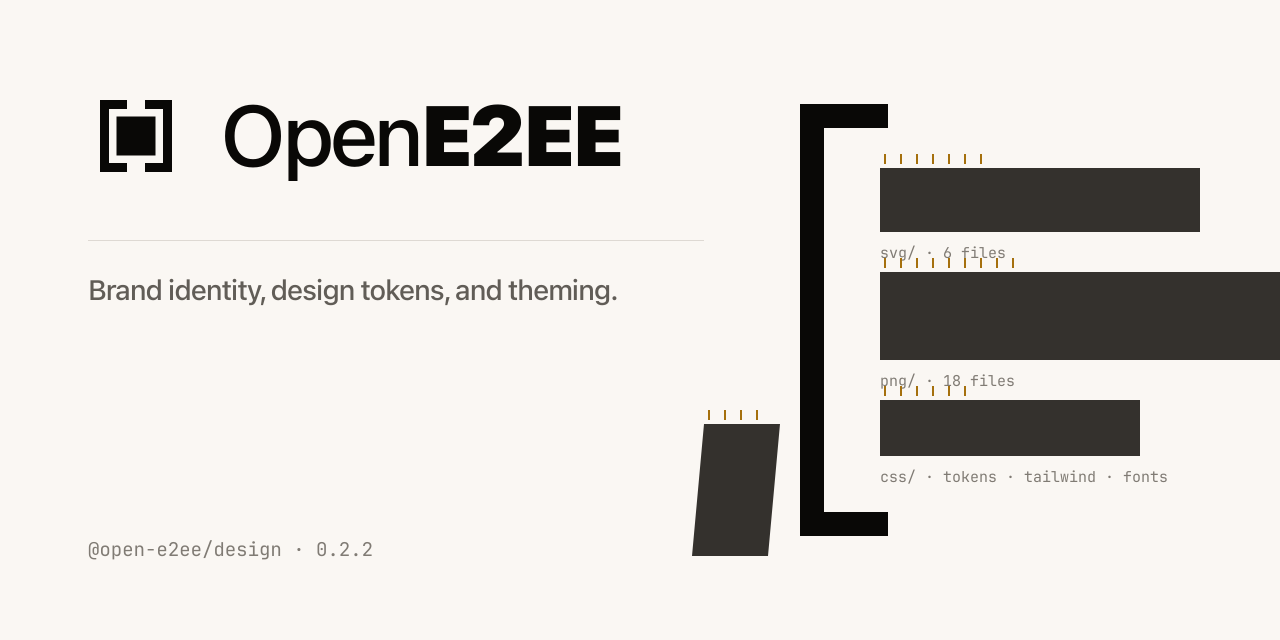
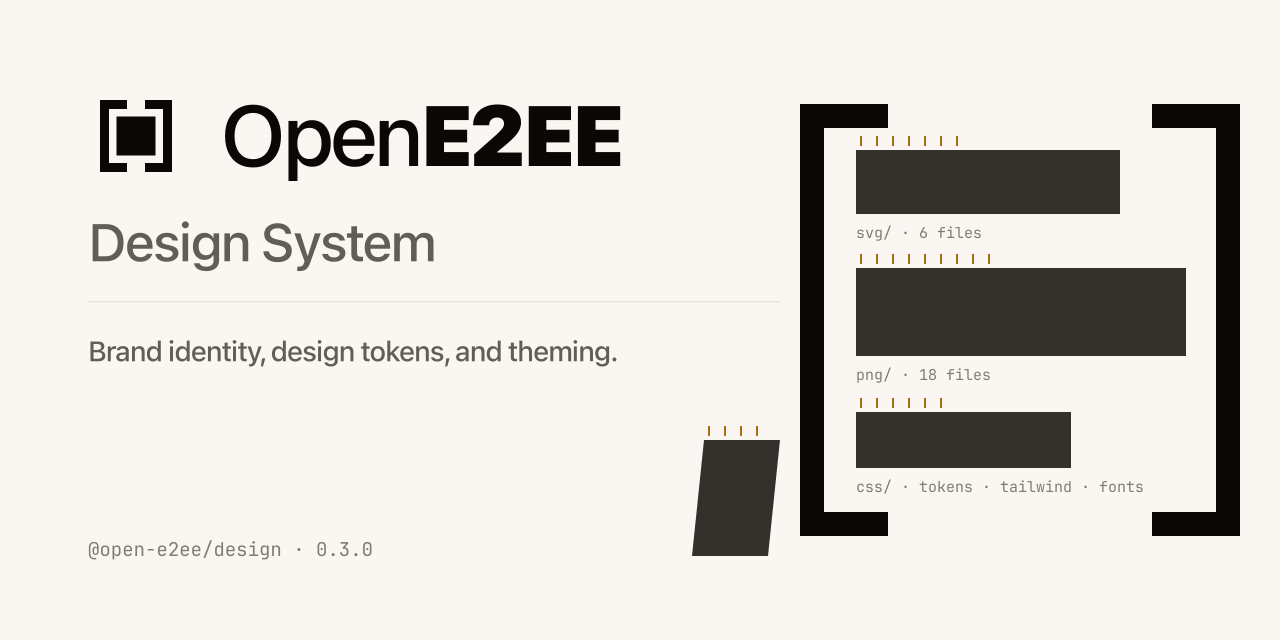
Adopt @open-e2ee/design v0.3.0: fixed social cards, contract-correct lockup ratios, website og card as site default (#16)

diff --git a/src/styles/global.css b/src/styles/global.css
@@ -348,16 +348,18 @@ a:hover {
 .lockup {
   display: inline-flex;
   align-items: center;
-  gap: 0.375em;
+  /* symbolGap / wordmarkFontSize from the design manifest: 48 / 109.76 */
+  gap: 0.437em;
   font-size: 1.25rem;
   line-height: 1;
   color: var(--oe-foreground);
 }
 
 .lockup .oe-mark {
-  /* Symbol-to-wordmark proportion from the design contract: cap height 0.62 S. */
-  width: 1.55em;
-  height: 1.55em;
+  /* Contract ratios are of the symbol height S, not the font size:
+     S / wordmarkFontSize = 128 / 109.76 per brand/generated/manifest.json. */
+  width: 1.166em;
+  height: 1.166em;
   flex: none;
 }
 
